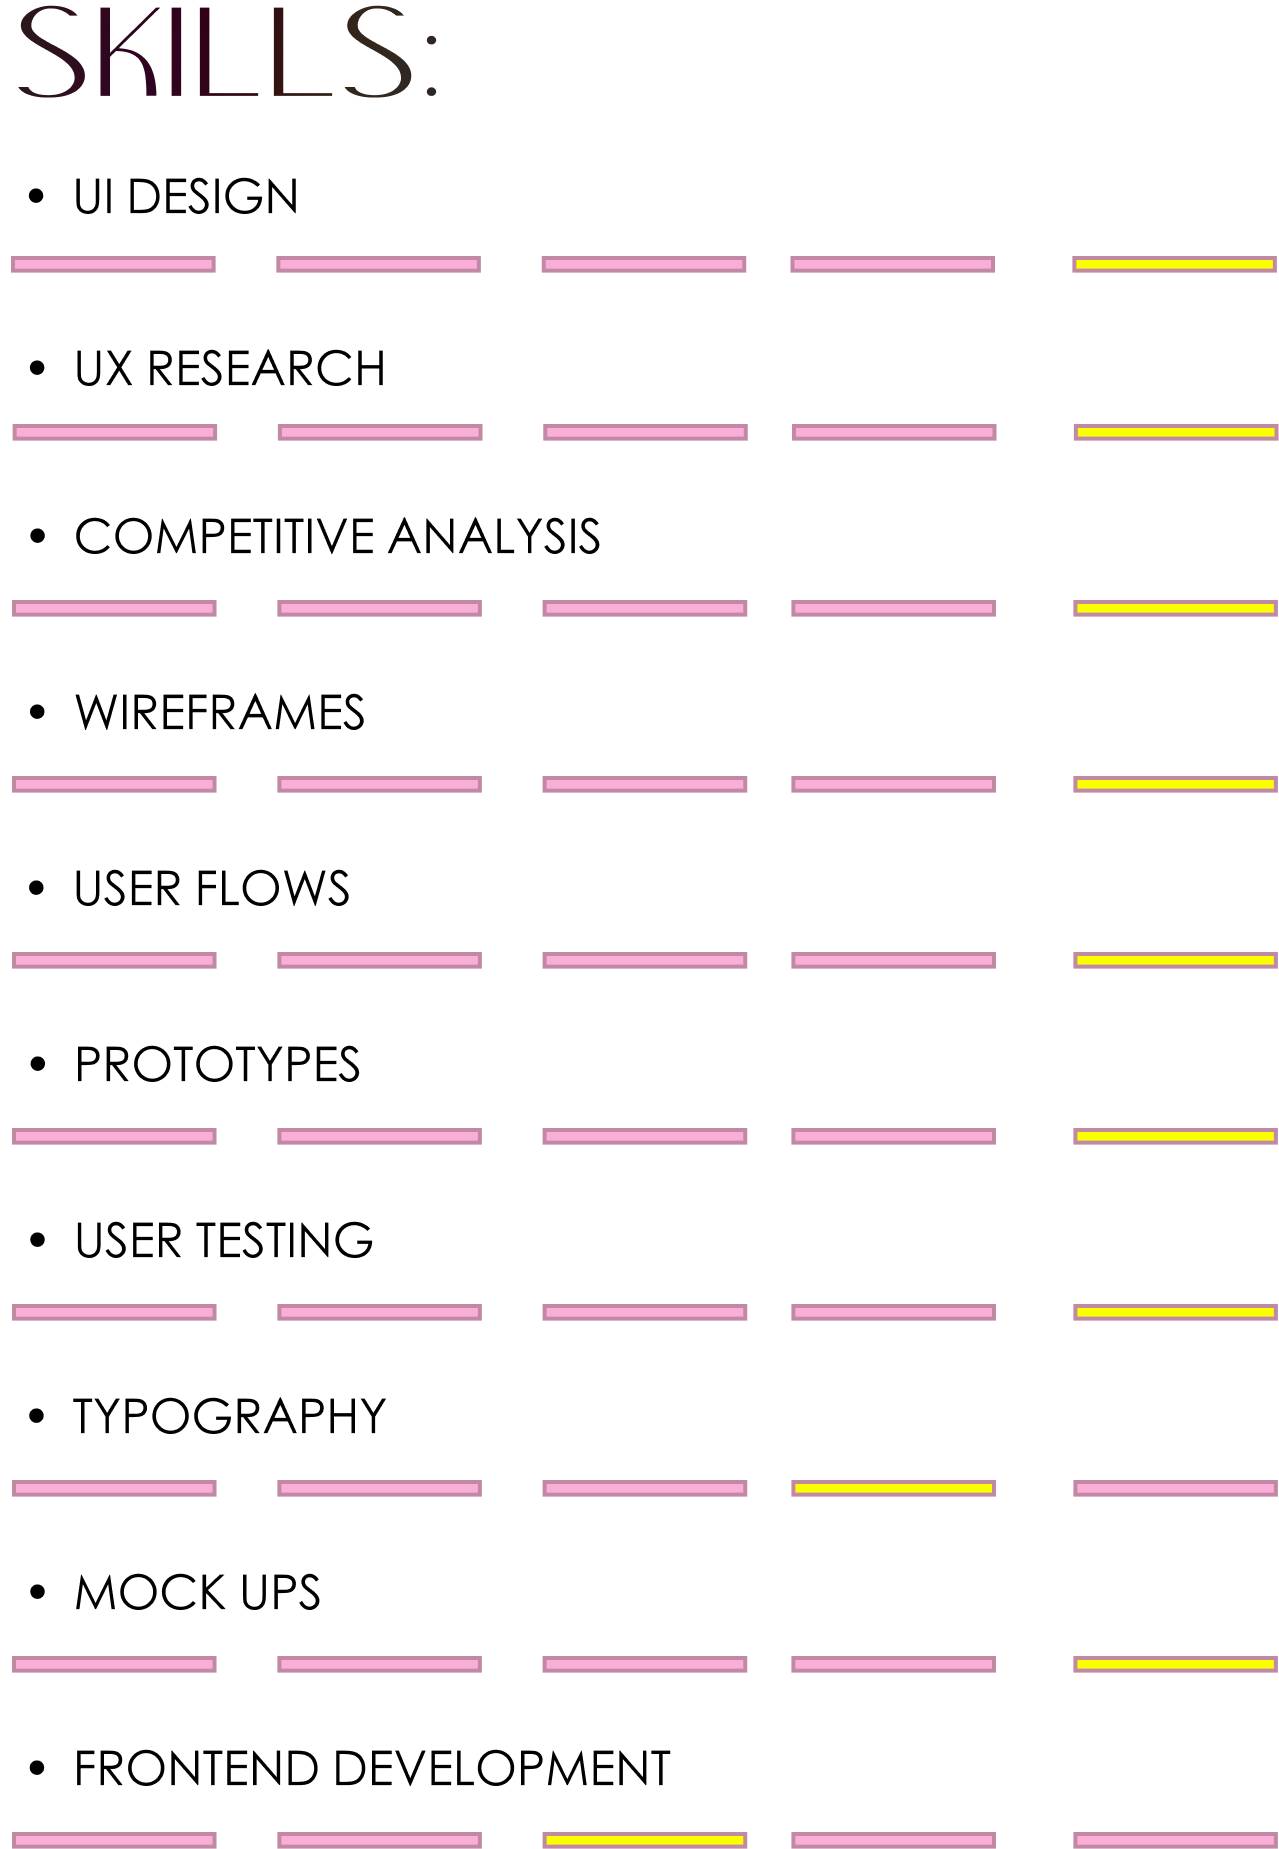
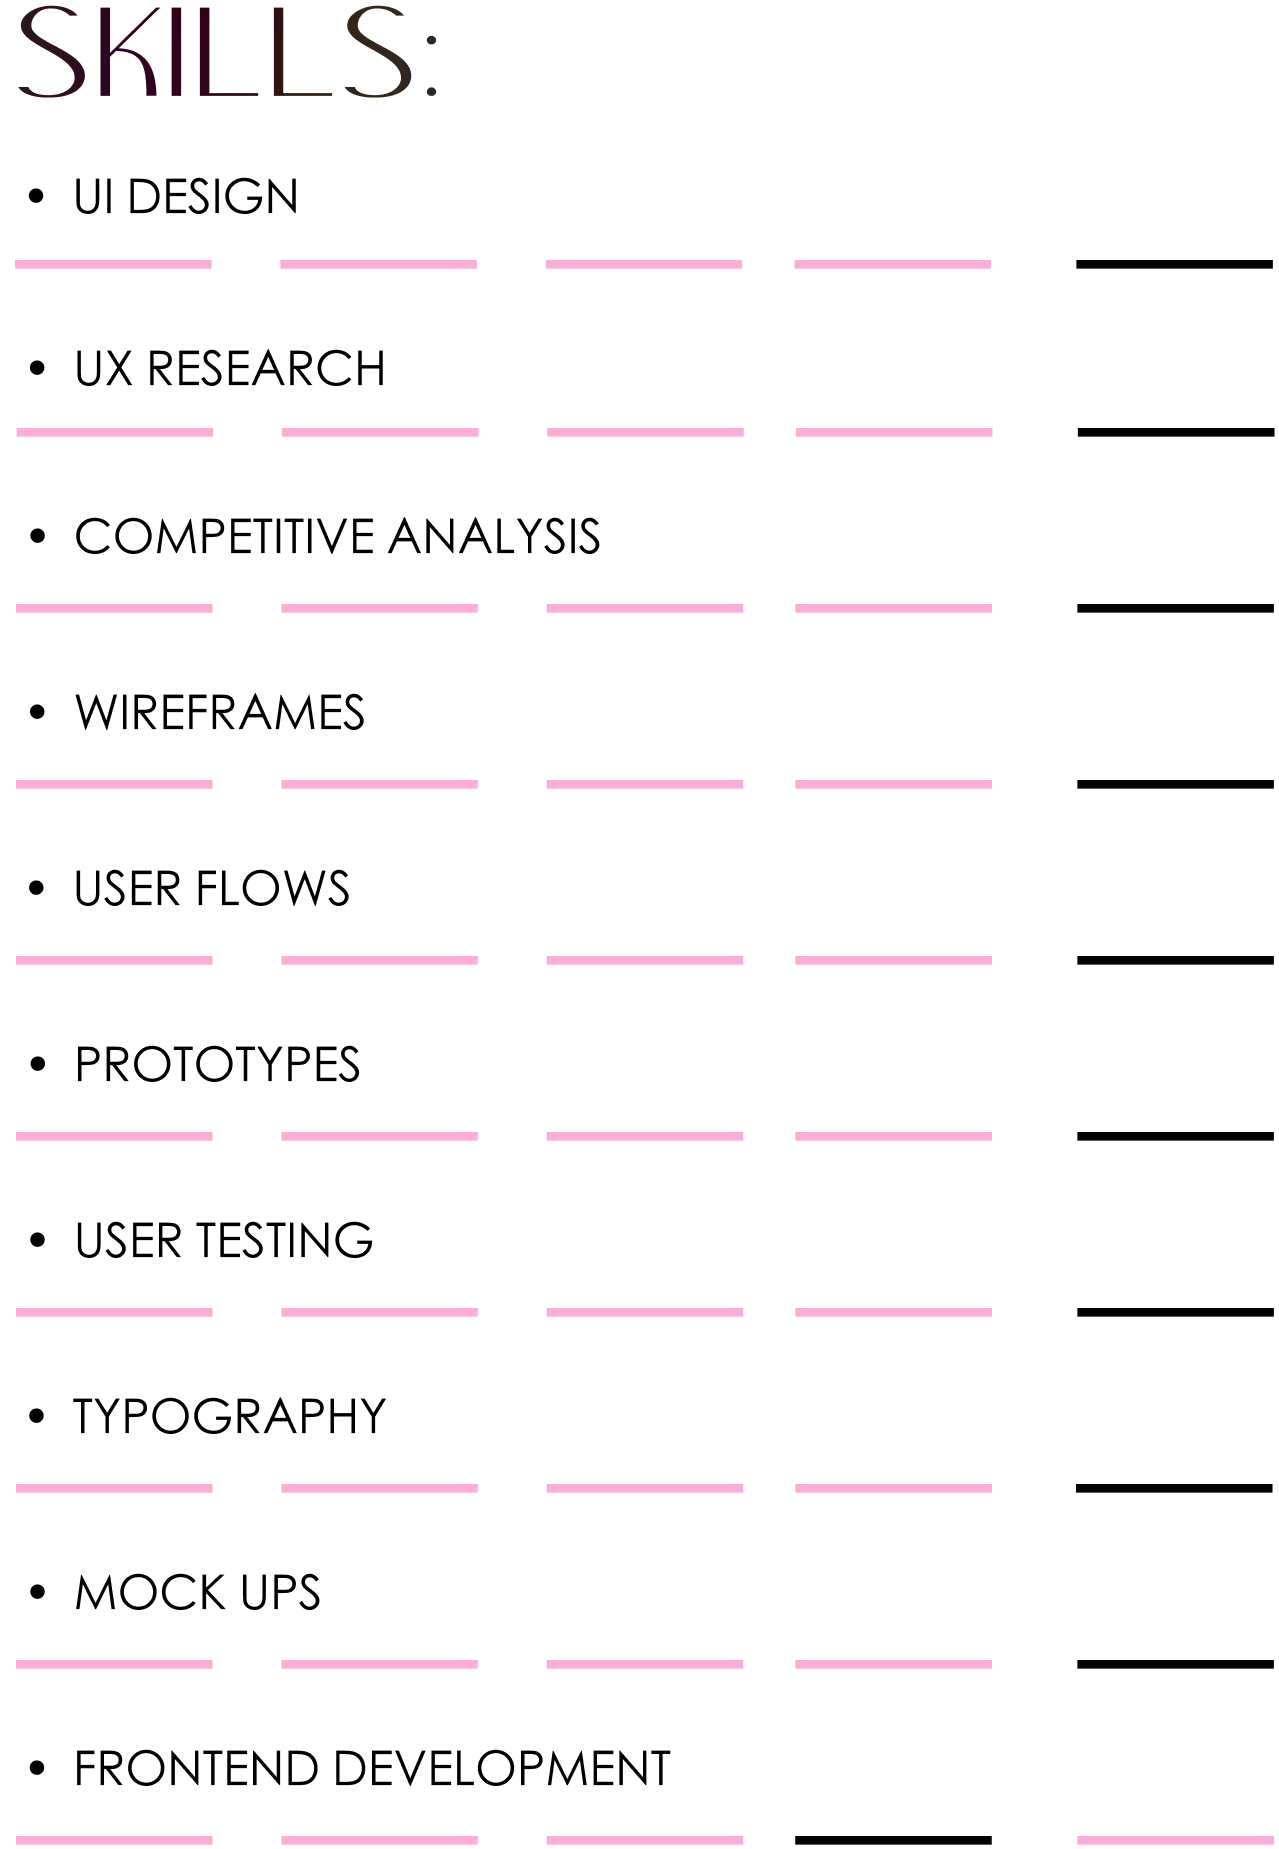
changed imagery
skills/tools/languages updated

diff --git a/about.html b/about.html
@@ -75,19 +75,19 @@
                 <div class="container">
                     <div id="about" class="row">
                         <div class="col-sm-12 col-md-12 col-lg-3 image-container">
-                            <picture>
+                            <picture class="skill">
                                 <source media="(max-width: 767px)" srcset="img/skills@2x.jpg">
                                 <img src="img/skills@4x.jpg" alt="My skills">
                             </picture>
                         </div>
                         <div class="col-sm-12 col-md-12 col-lg-3 image-container">
-                            <picture>
+                            <picture class="skill">
                                 <source media="(max-width: 767px)" srcset="img/tools@2x.jpg">
                                 <img src="img/tools@4x.jpg" alt="Tools">
                             </picture>
                         </div>
                         <div class="col-sm-12 col-md-12 col-lg-3">
-                            <picture>
+                            <picture class="skill">
                                 <source media="(max-width: 767px)" srcset="img/languages@2x.jpg">
                                 <img src="img/languages@4x.jpg" alt="Languages">
                             </picture>

diff --git a/css/style.css b/css/style.css
@@ -203,14 +203,13 @@ nav > ul {
     width: 100%;
   }
   .pic img {
-    width: 60%;
+    width: 70%;
     height: auto; /* preserve aspect ratio */
     margin-left: auto;
     margin-right: auto;
     display: block;
-    /* float: right; */
-    /* margin-right: 40px; */
-    padding-top: 20px;
+    padding-top: 10px;
+    padding-bottom: 20px;
  }
 .about-me {
   margin-top: 30px;
@@ -441,7 +440,7 @@ Small devices (up to 639px)
 
   }
   .intro{
-    padding-top: 300px;
+    padding-top: 350px;
     font-size: 28px;
   }
   h1{
@@ -512,7 +511,7 @@ Medium devices (640px and larger)
   #hero h1 {
     text-align: right;
     padding-right: 30px;
-    font-size: 30px;
+    font-size: 40px;
 }
   .navtoggle li:not(:last-child) {
     display: inline-block;
@@ -540,6 +539,19 @@ Medium devices (640px and larger)
   .col-md-3 {
     width: calc(100%/3);
   }
+  .skill{
+    padding-left: 100px;
+  }
+  .pic img {
+    width: 60%;
+    height: auto; /* preserve aspect ratio */
+    margin-left: auto;
+    margin-right: auto;
+    display: block;
+    /* float: right; */
+    /* margin-right: 40px; */
+    padding-top: 80px;
+ }
 }
 
 #nav {
